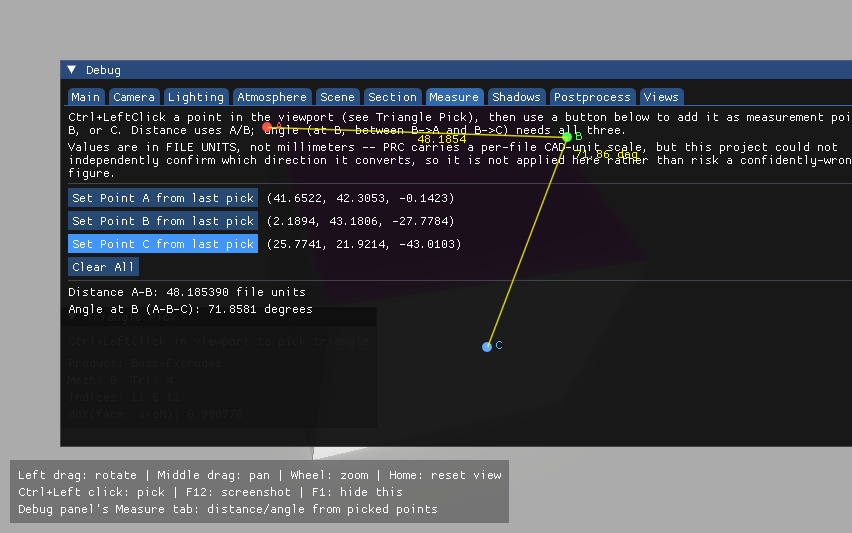
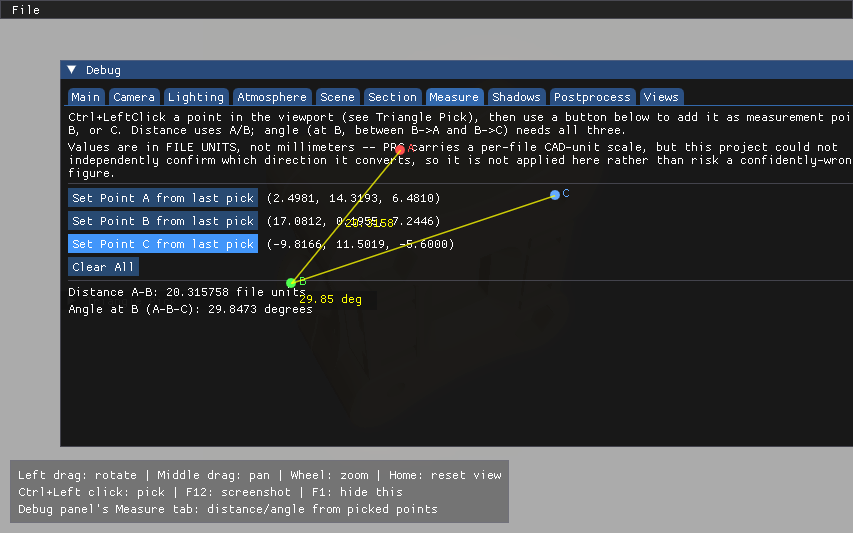
Replace screenshot gallery with a real CAD part via STEP import
All 6 screenshots now come from one source: a filament sensor bracket
(a real multi-solid STEP export) brought in via File > Import from STEP,
rather than nanoPRC's bundled cube/cylinder/triangle toy examples. Adds
a new shot of the File > Import from STEP menu itself, documenting the
feature added in the previous commit. The Section-tab shot also now
visibly shows cut internal walls, which the toy cube's featureless
interior couldn't.

(cherry picked from commit 0df3fdec0dd79a8ab467bd8791533ac0c6e8d89d)

diff --git a/README.md b/README.md
@@ -326,30 +326,32 @@ this pattern.
 
 ## Screenshots
 
-All rendered from this repo's own build against the bundled example PDFs in
-`third_party/nanoPRC/examples/`.
+All rendered from this repo's own build, from a real CAD part (a filament
+sensor bracket, originally a multi-solid STEP export) brought in via
+**File > Import from STEP** rather than one of nanoPRC's bundled toy
+examples.
 
-**`cube.pdf`, as first opened**
+**As first opened, right after importing the STEP file**
 
-![A white cube with a magenta top face on a grey background, lit from above](screenshots/01-cube.png)
+![A tan CAD bracket part with rounded ends, mounting holes, and a cutout in the middle, on a grey background](screenshots/01-filament-sensor.png)
 
 **Mid-rotation, via left-mouse drag**
 
-![A magenta cylinder tilted off its starting axis part-way through a drag rotation](screenshots/02-rotated-cylinder.png)
+![The same bracket part tilted to a different angle part-way through a drag rotation](screenshots/02-rotated-filament-sensor.png)
 
-**`triangle.pdf`**
+**File > Import from STEP**
 
-![A flat yellow triangle on a grey background](screenshots/03-triangle.png)
+![The File menu open, showing the single "Import from STEP..." item, over the bracket part](screenshots/03-import-from-step-menu.png)
 
 **Mid-pan, via middle-mouse drag**
 
-![The magenta cylinder shifted right of centre by a pan, with the F1 control-hint caption visible at the bottom left](screenshots/04-panned-cylinder.png)
+![The bracket part shifted right of centre by a pan, with the F1 control-hint caption visible at the bottom left](screenshots/04-panned-filament-sensor.png)
 
-**The Section tab's clipping plane, cutting into the cube**
+**The Section tab's clipping plane, cutting into the part**
 
-![The cube with the Section tab's clipping plane applied](screenshots/05-cross-section.png)
+![The bracket part with the Section tab's clipping plane applied, revealing internal walls that aren't visible from outside](screenshots/05-cross-section.png)
 
-**The Measure tab, with three points picked on the cube**
+**The Measure tab, with three points picked on the part**
 
 ![The Measure tab with points A, B and C picked, the panel reporting the A-B distance and the angle at B, and the same values drawn as an overlay in the viewport](screenshots/06-measure-distance-angle.png)
 
